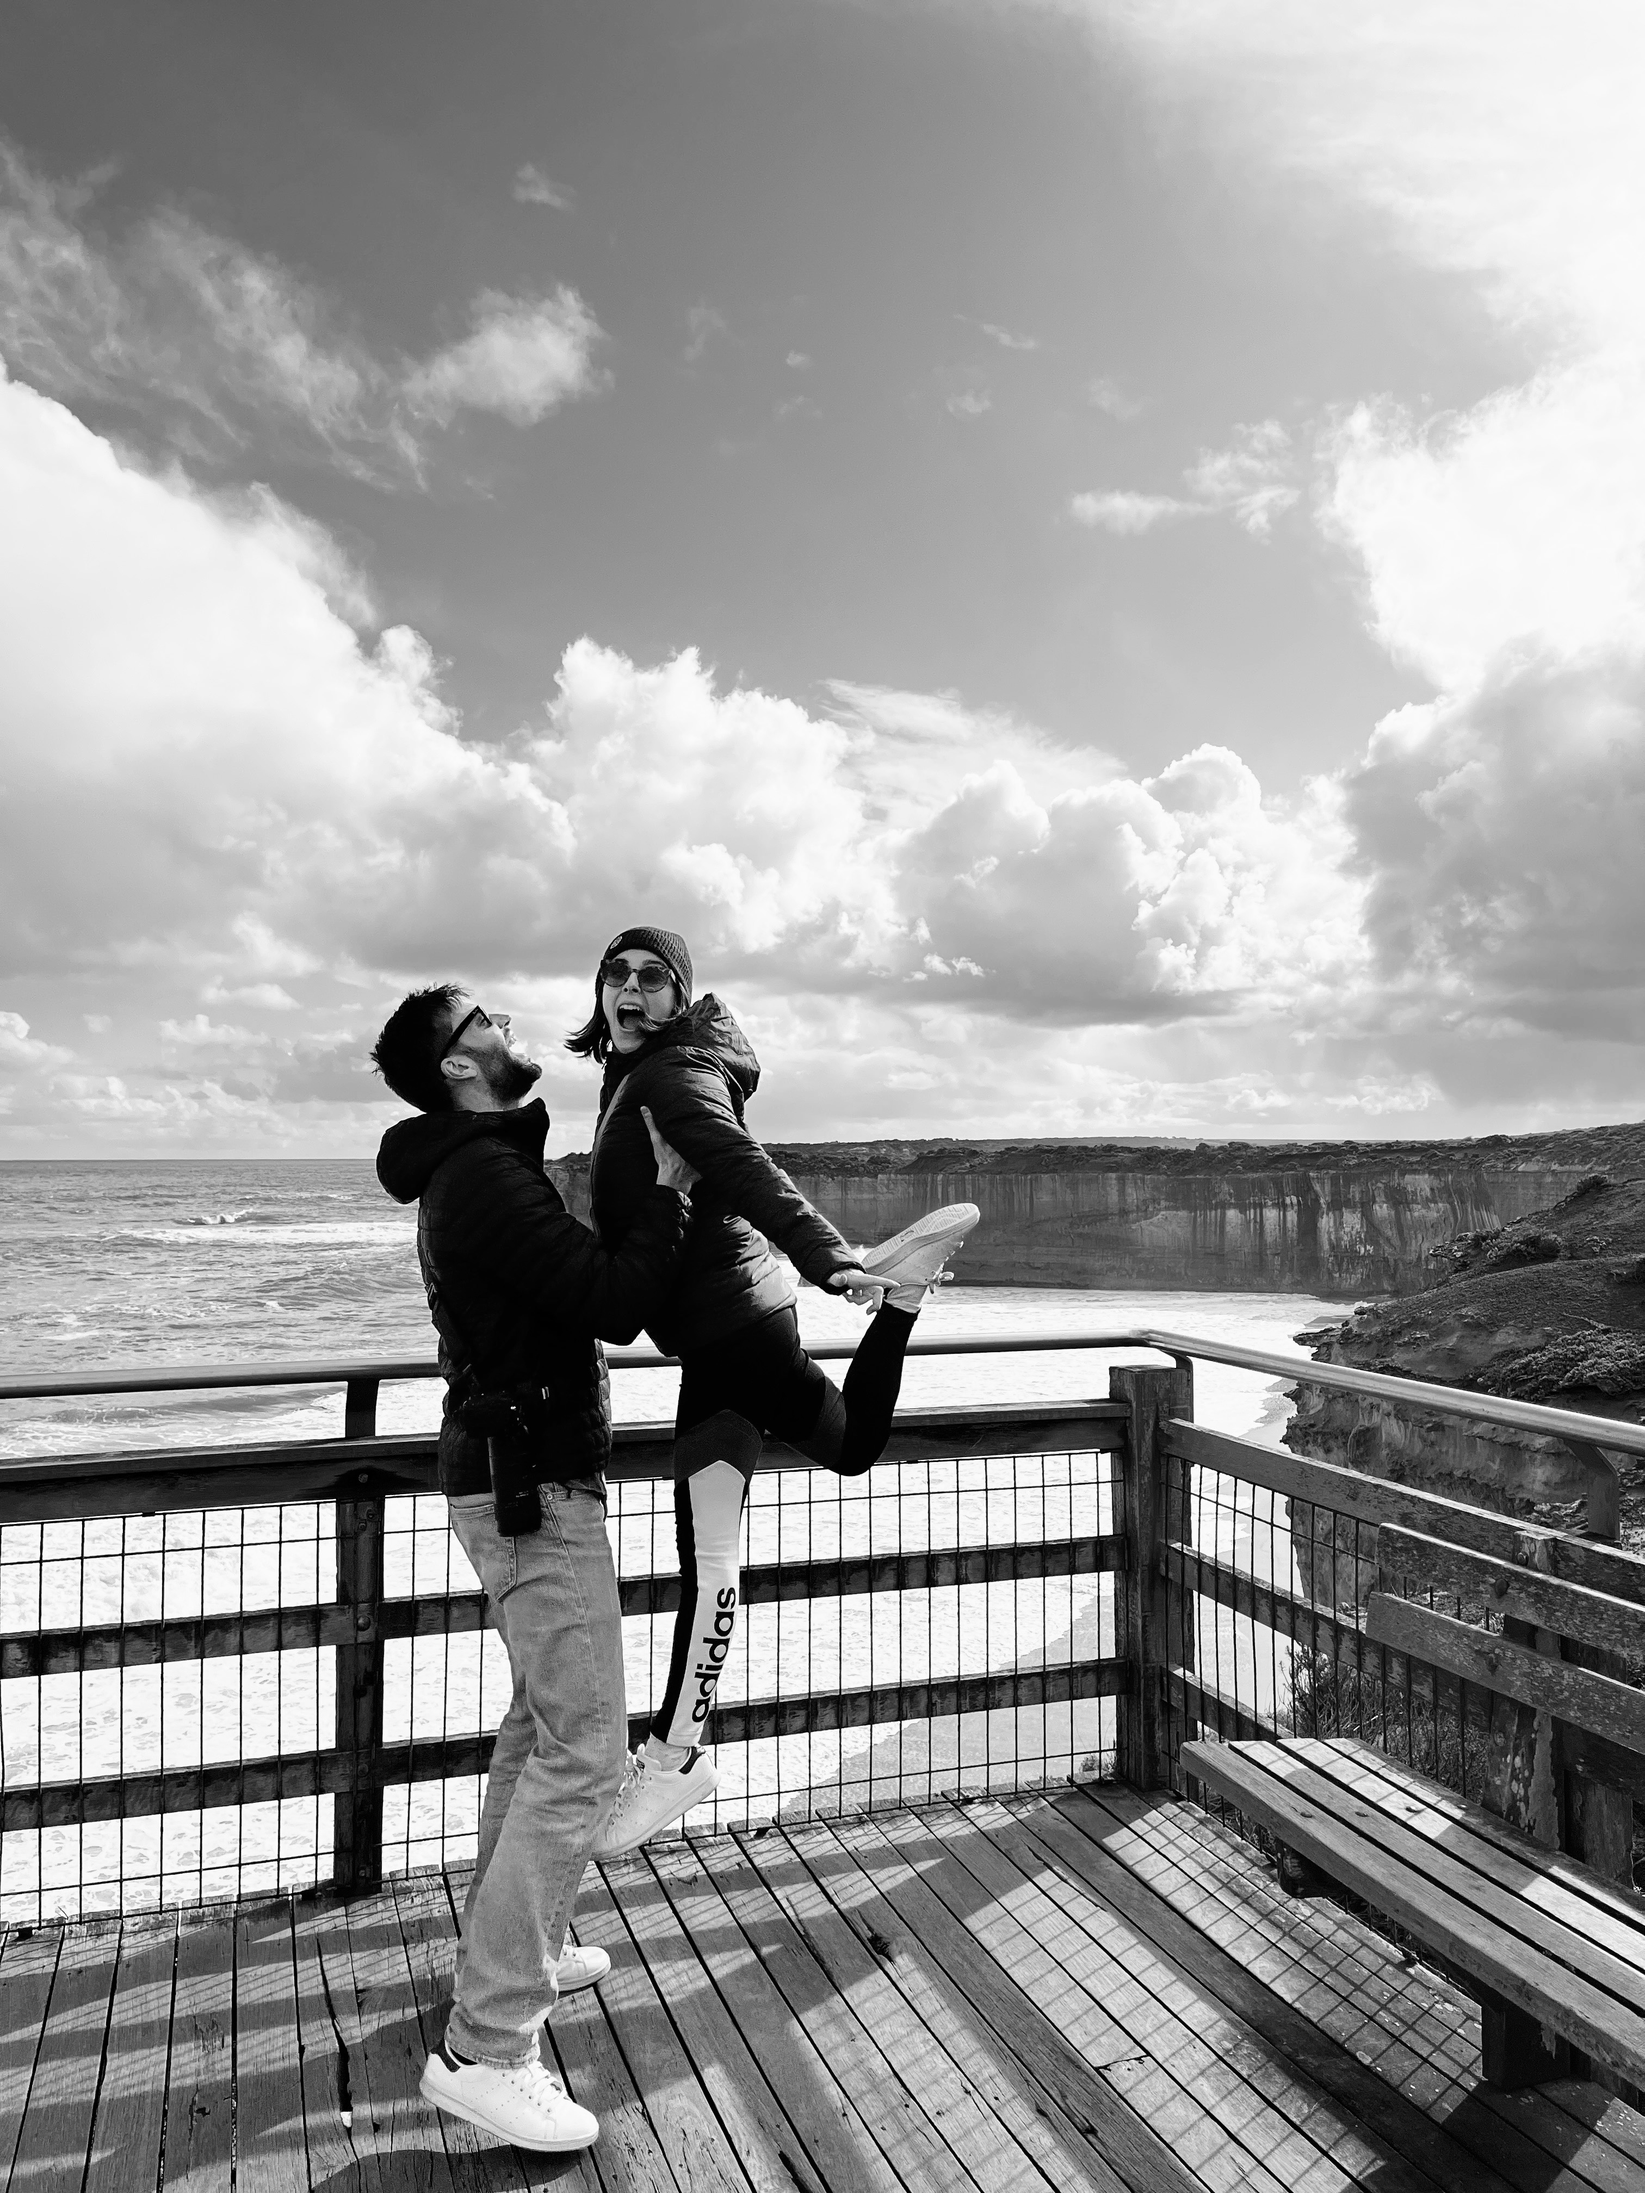
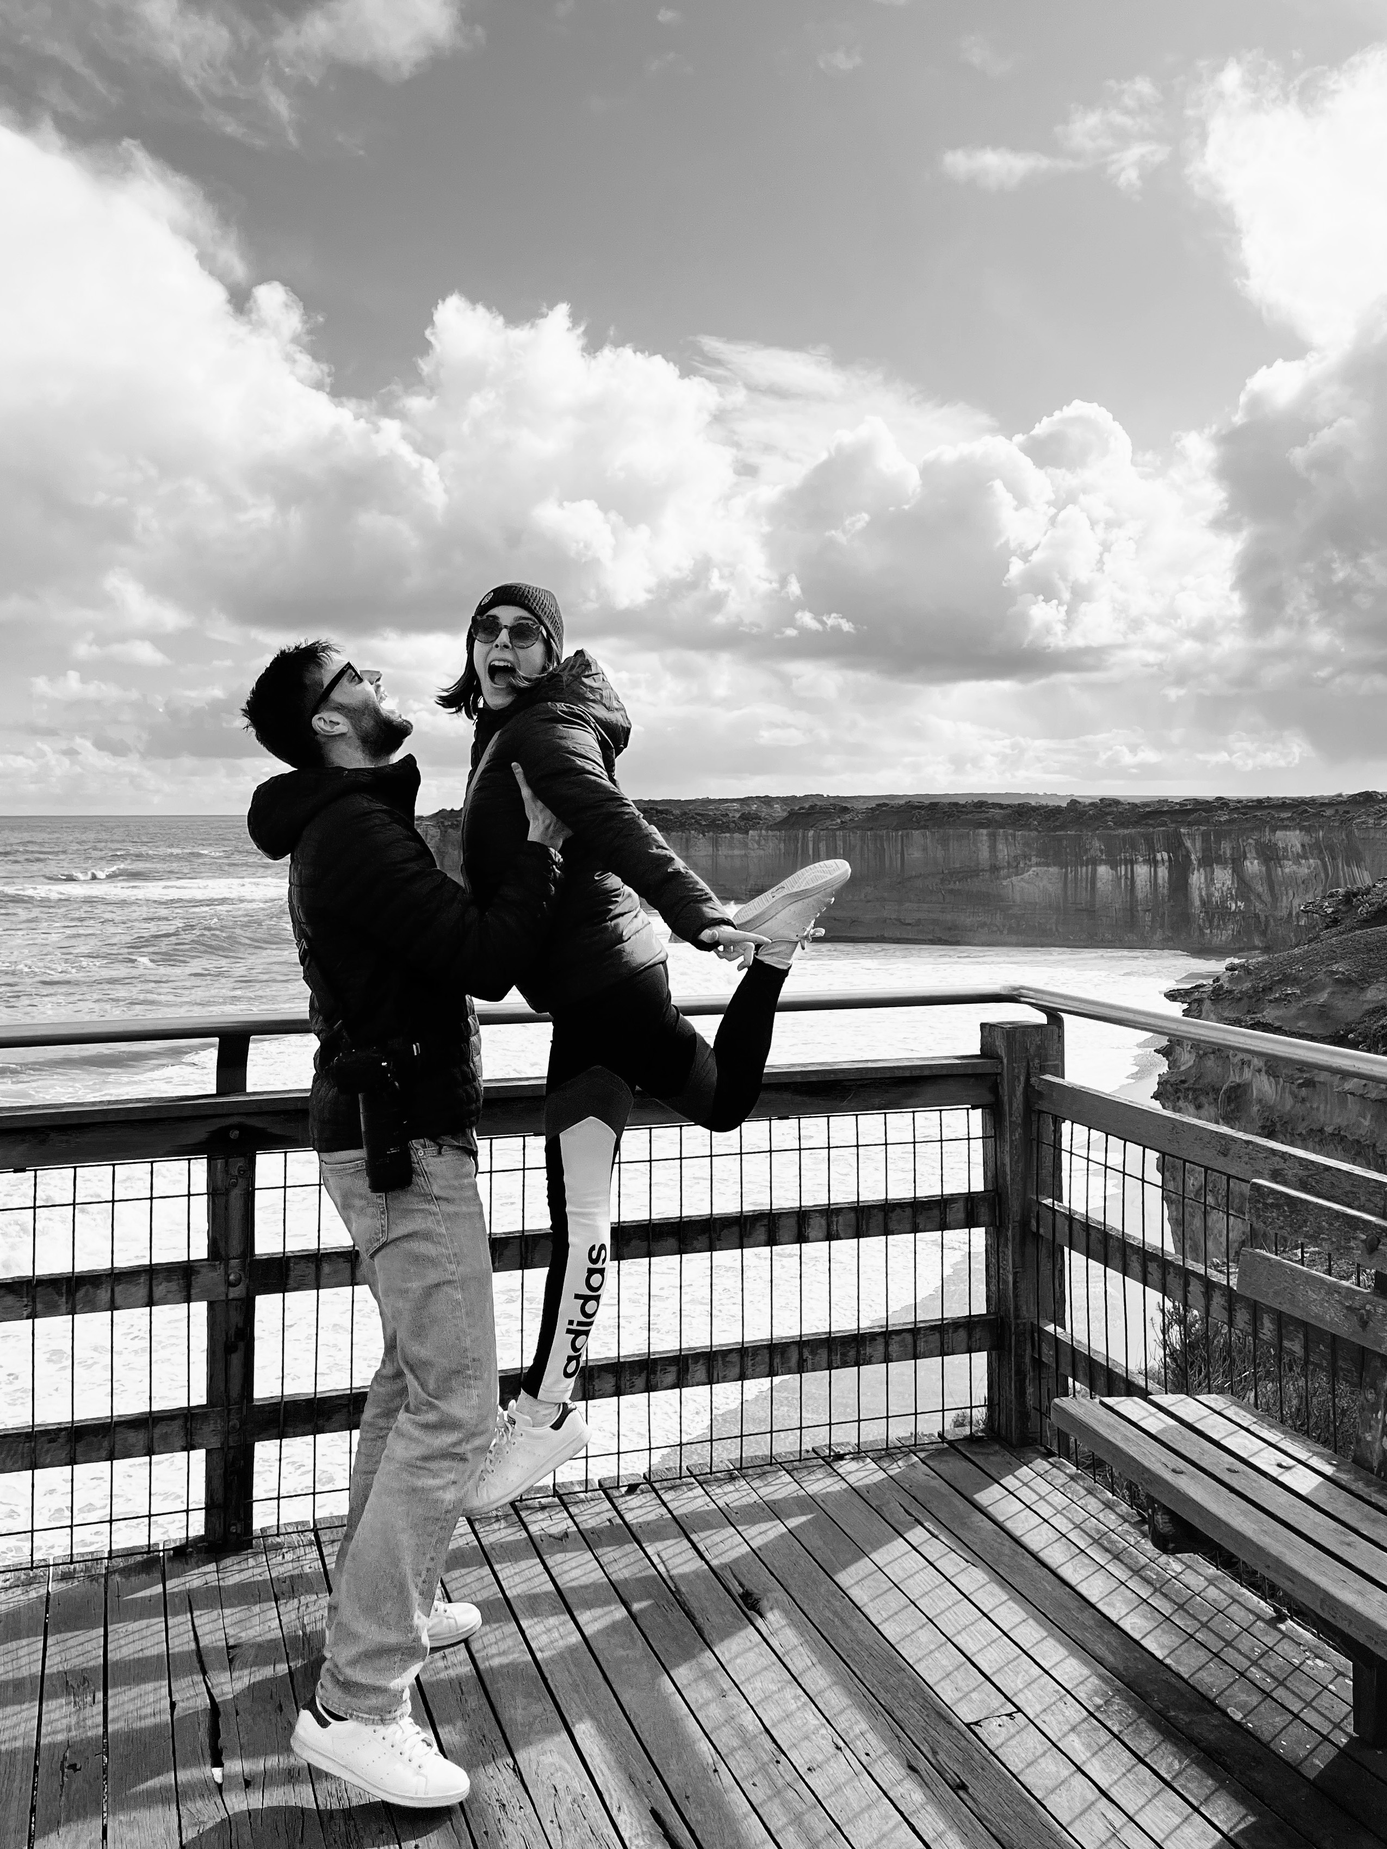
replace photos, one button

diff --git a/assets/css/main.css b/assets/css/main.css
@@ -2223,7 +2223,8 @@ pre code {
 	#photos .photo-gallery img {
 		max-width: 100%; /* Ensure photos are responsive */
 		width: 30%; /* Set each photo to occupy a third of the container width */
-		height: 300px; /* Limit the height to a smaller value */
+		/*height: 300px; /* Limit the height to a smaller value */
+		max-height: 550px;
 		/*height: auto; /* Limit the height to a smaller value */
 		object-fit: contain; /* Ensure the entire image is visible */
 		border: none; /* Ensure no border is applied */

diff --git a/index.html b/index.html
@@ -112,10 +112,8 @@
 					<header id="header" class="alt">
 						<h1><a href="index.html">Ioanna & Apostolos</a></h1>
 						 <!-- Language Switcher -->
-						<div class="language-switcher">
-							<button id="english-button">English</button>
-							<button id="greek-button">Ελληνικά</button>
-						</div>
+						  <!-- Language Toggle Button -->
+    					<button id="language-toggle" style="margin: 10px; padding: 10px;">Switch to Greek</button>
 					</header>
 					
 					<style>
